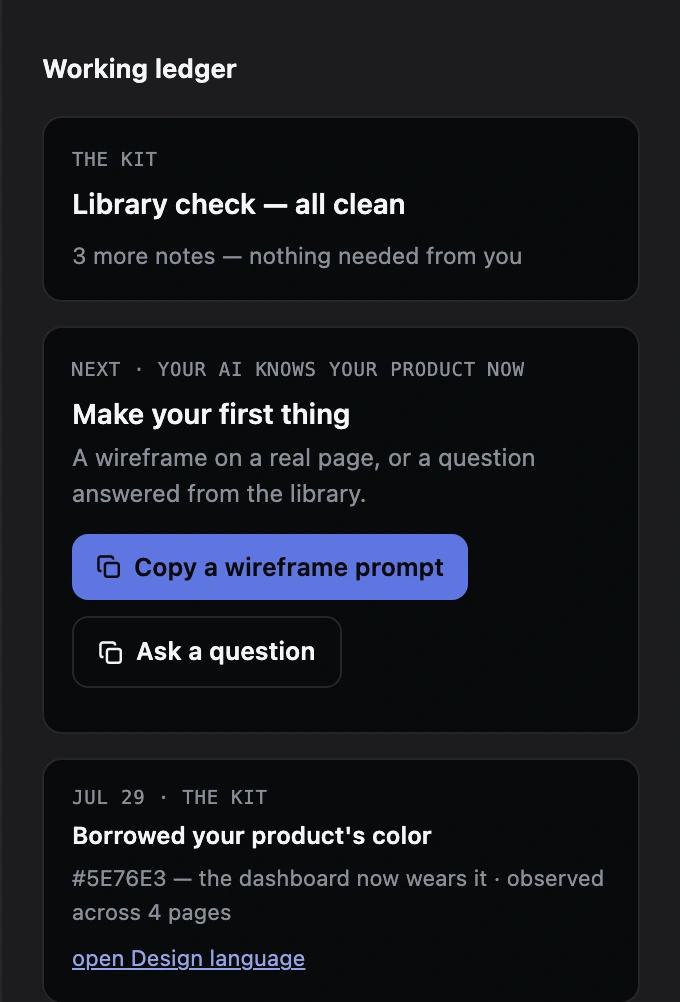
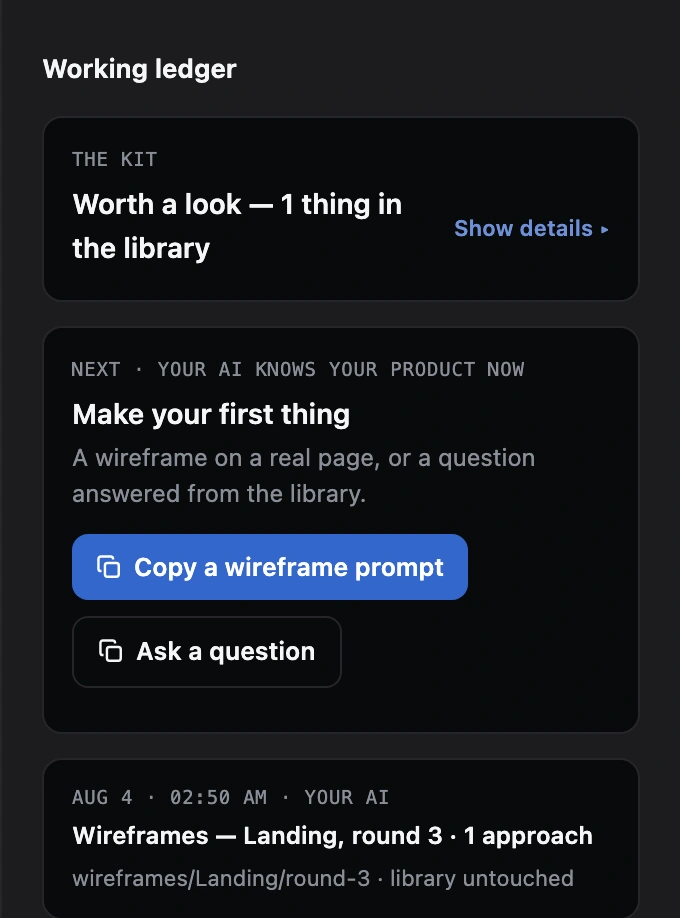
Wikipedia assets: one product, not two
Re-shoot hero, map, design-language, ledger and Figma page-doc panels from
wikipedia/ (38 pages, described 38/38) in place of xflowpay.com and the stale
41-page wikipedia capture. step-capture is a genuine mid-flight capture driven
through the real onboarding wizard against an isolated scratch workspace
(wikipedia/ itself never touched or rebuilt). step-design uses Prateek's own
HEADCOUNT wireframe on the captured Wiknic meetup page, shot with a new
region-shot.js after shot-wire.js was found to silently truncate multi-region
wireframes at the viewport edge.

Every number in the copy re-read from the live dashboard or registry.json,
never carried over from the old copy. Full provenance, gates and reasoning in
prds/landing-page-wikipedia-assets-BUILD-REPORT.md (design-kit-workspace).

diff --git a/docs/index.html b/docs/index.html
@@ -401,20 +401,19 @@ tools/start.sh</code>
 
     </div>
 
-    <!-- The hero map is en.wikipedia.org as of v1.3, and the swap was decided on the same measurement that
-         kept xflow in v1.2. Back then wikipedia won on structure (two rings, district arcs, a deep-fog chip
-         a single-ring library cannot produce) and lost on accent presence: 1 of its 37 discs wore the
-         product's accent against 8 of 18 on xflow — because the accent ring marks a page whose description
-         has been written, and that workspace had none. The describe run removed that cause: it is 41/41
-         now, and 33 of its 36 discs wear the measured Wikipedia blue. The remaining three are the purple
-         ×N covering discs shipped in 779ffbb, not undescribed pages. Criterion 5 is contested rather than
-         won — xflow still leads on proportion (100% vs 91.7%) and on accent pixels at its own tier — and
-         the call to flip was made on that full table, in prds/landing-page-v1.3-warm-BUILD-REPORT.md § F1. -->
+    <!-- The hero map is en.wikipedia.org, reshot for prds/landing-page-wikipedia-assets.md so every
+         full-size dashboard view on this page now comes from the same library instead of two different
+         products. Same winning tier v1.3 established (83%, via the dashboard's own − control) reproduced
+         against the freshly re-captured 38-page library: 38/38 described, readiness 86. 21 of 36 discs in
+         frame wear the measured Wikipedia blue (accent or accent-strong), the other 15 are the purple ×N
+         covering discs shipped in 779ffbb, not undescribed pages. Numbers re-read at build time with
+         hero-probe2.js and badge-probe.js against the live dashboard; see
+         prds/landing-page-wikipedia-assets-BUILD-REPORT.md. -->
     <div class="heroshot">
       <figure class="shot">
         <img src="assets/hero-map.webp" width="2200" height="1696"
-             alt="The kit's dashboard on the Map tab: a real capture of en.wikipedia.org, with the landing page lit at the centre reading '38 in · 19 out', and thirty-two further captured pages ringed across two rings labelled one click and two clicks, each drawn as a disc of its own screenshot and rimmed in the Wikipedia blue the kit measured. Three discs instead carry a purple ×N badge: one downloaded example standing for a whole template shape, the largest reading ×2.9k. Fourteen dashed ghost pages sit in the fog beyond, beside a chip reading 'DEEP FOG…4205 MORE — TEMPLATES STAND FOR MOST'. The footer reads '0.8% of the known world explored · rings are honest clicks-from-home · every unlock pushes the fog back'.">
-        <figcaption>The Map, on a real capture of en.wikipedia.org: forty-one pages downloaded, 4,593 still ghosts in the fog. Rings are measured clicks from home.</figcaption>
+             alt="The kit's dashboard on the Map tab: a real capture of en.wikipedia.org, with the landing page lit at the centre reading '35 in · 21 out', and thirty-five further captured pages ringed across three rings labelled one click, two clicks and three clicks, each drawn as a disc of its own screenshot and rimmed in the Wikipedia blue the kit measured. Fifteen discs instead carry a purple ×N badge: one downloaded example standing for a whole template shape, the largest reading ×1.1k. Fourteen dashed ghost pages sit in the fog beyond, beside a chip reading 'DEEP FOG…4007 MORE — TEMPLATES STAND FOR MOST'. The footer reads '0.9% of the known world explored · rings are honest clicks-from-home · every unlock pushes the fog back'.">
+        <figcaption>The Map, on a real capture of en.wikipedia.org: thirty-eight pages downloaded, 4,188 still ghosts in the fog. Rings are measured clicks from home.</figcaption>
       </figure>
     </div>
   </section>
@@ -447,8 +446,8 @@ tools/start.sh</code>
             <p>It follows your product's links and downloads each page as a snapshot: the real HTML, a screenshot, every word of copy, and the styles it actually uses. Pages that share a layout collapse to one example, with the count kept. You watch it land, page by page, and it tells you what it capped or skipped.</p>
           </div>
           <div class="imgwrap">
-            <img src="assets/step-capture.webp" width="1400" height="1450"
-                 alt="The dashboard mid-capture, headed 'Capture in progress': counters reading 6 pages captured, 1 template collapsed, 0 skipped, 18 nav pages found, above a live log that includes the line 'dismissed banner via dismiss (logged)' and six captured pages with their sizes.">
+            <img src="assets/step-capture.webp" width="1400" height="705"
+                 alt="The dashboard mid-capture, headed 'Capture in progress': counters reading 10 pages captured, 2 templates collapsed, 0 skipped, 28 nav pages found, above a live log that opens with 'Nav discovery (nav-landmarks): 28 candidate pages' and ten captured Wikipedia pages with their sizes, from wiki-main-page to wiki-special-recentchanges.">
           </div>
         </article>
 
@@ -459,8 +458,8 @@ tools/start.sh</code>
             <p>Point Claude Code, Cursor, or a chat window at the library and ask for a change. A wireframe comes back built on the captured page itself: your product's own shell, spacing and content, reduced to lo-fi, with the new part marked as new. Then take any page into Figma in one paste.</p>
           </div>
           <div class="imgwrap">
-            <img src="assets/step-design.webp" width="1500" height="663"
-                 alt="A wireframe round on the captured Stablecoin Payments page: the product's real navigation bar in grayscale above a dashed region tagged 'NEW: FLOW SPINE', holding three numbered steps (create wallet addresses, buyer sends stablecoins, user withdraws in INR), each with small chips of supporting detail.">
+            <img src="assets/step-design.webp" width="1500" height="421"
+                 alt="A wireframe round on a captured Wikipedia meetup page: a dashed region tagged 'NEW: HEADCOUNT', holding a meter reading '18 named of 49 allowed' beside a by-answer breakdown (Going 1, Likely 12, Maybe 4, Can't go 1) and the note 'Almost everyone answered Likely, so the real number on the day is not knowable.'">
           </div>
         </article>
 
@@ -543,11 +542,11 @@ tools/start.sh</code>
           <div class="body reveal">
             <h3>The Map</h3>
             <p class="quote">Rings are honest clicks-from-home; the fog is what you haven't captured yet.</p>
-            <p>Every captured page sits at its measured distance from the home page, sized by how linked-to it is. Pages the kit found but never downloaded stay as dashed ghosts in the fog. Click one, and the rail tells you what it is and what unlocking it would cost. Here a ghost covering thirteen blog pages is selected: the kit offers one example of the shape rather than all thirteen, because thirteen near-duplicates teach your AI nothing new. Eleven per cent of this product is explored, and the kit says so instead of rounding up.</p>
+            <p>Every captured page sits at its measured distance from the home page, sized by how linked-to it is. Pages the kit found but never downloaded stay as dashed ghosts in the fog. Click one, and the rail tells you what it is and what unlocking it would cost. Here a ghost covering 131 assorted one-off pages is selected: the kit offers one example of the shape rather than all 131, because 131 near-duplicates teach your AI nothing new. 0.9 per cent of this product is explored, and the kit says so instead of rounding up.</p>
           </div>
           <div class="imgwrap">
             <img src="assets/tour-map.webp" width="1900" height="1188"
-                 alt="The Map tab with a frontier ghost selected: the hovered ghost reads '/blog/:var — not downloaded yet — linked from 18 pages — click to unlock', and the rail panel is headed 'Locked — not downloaded yet' with the line '13 pages share this layout — one example covers the shape for your AI', a 'Get one example' button, a quieter 'Download all 13', and a checkbox list of the specific URLs.">
+                 alt="The Map tab with a frontier ghost selected: the hovered ghost reads '(assorted one-off pages) — not downloaded yet — linked from 23 pages — click to unlock', and the rail panel is headed 'Locked — not downloaded yet' with the line '131 pages share this layout — one example covers the shape for your AI', a 'Get one example' button, a quieter 'Download all 131', and a checkbox list of the specific URLs.">
           </div>
         </article>
 
@@ -555,11 +554,11 @@ tools/start.sh</code>
           <div class="body reveal">
             <h3>Design language</h3>
             <p class="quote">Measured from your product, or absent.</p>
-            <p>Colours, type ramp, spacing ladder and radii, aggregated from the captured pages, every value carrying the count and page-spread behind it, as here, where the product's darkest navy is <code>×32,939</code> across all eighteen pages and the accent is <code>×141</code> across four. One toggle re-reads the same colours as a treemap of how often each appears. The tab opens with <code>method: heuristic</code> in its own words: evidence of how the product is styled today, not a claim about its authored tokens. It even names what it left out: values seen on a single page stay in <code>tokens.json</code> instead of being promoted into the ramp.</p>
+            <p>Colours, type ramp, spacing ladder and radii, aggregated from the captured pages, every value carrying the count and page-spread behind it, as here, where the product's darkest tone is <code>×42,696</code> across all thirty-eight pages and the accent is <code>×24,479</code>, also across all thirty-eight. One toggle re-reads the same colours as a treemap of how often each appears. The tab opens with <code>method: heuristic</code> in its own words: evidence of how the product is styled today, not a claim about its authored tokens. It even names what it left out: values seen on a single page stay in <code>tokens.json</code> instead of being promoted into the ramp.</p>
           </div>
           <div class="imgwrap">
-            <img src="assets/tour-tokens.webp" width="1900" height="609"
-                 alt="The Design language tab: a provenance strip reading 'Everything below is method: heuristic — values observed on the captured pages, aggregated and clustered by statistics — they are evidence of how the product is styled today, not its authored design tokens', then 'Filter: seen on 2+ pages (41 single-page values kept in tokens.json)', above a Palette / Proportions toggle and twenty-one colour swatches, each labelled with its hex, how many times it was seen and on how many pages: #1F2741 ×32,939 on 18 pages, down to #E4E9FF ×5 on 5 pages.">
+            <img src="assets/tour-tokens.webp" width="1900" height="885"
+                 alt="The Design language tab: a provenance strip reading 'Everything below is method: heuristic — values observed on the captured pages, aggregated and clustered by statistics — they are evidence of how the product is styled today, not its authored design tokens', then 'Filter: seen on 2+ pages (161 single-page values kept in tokens.json)', above a Palette / Proportions toggle and forty-eight colour swatches, each labelled with its hex, how many times it was seen and on how many pages: #202122 ×42,696 on 38 pages, down to #DFF2EB ×2 on 2 pages.">
           </div>
         </article>
 
@@ -567,11 +566,11 @@ tools/start.sh</code>
           <div class="body reveal">
             <h3>The working ledger</h3>
             <p class="quote">It borrows your product's own colour: observed, never guessed.</p>
-            <p>A journal down the side of the dashboard: what was captured, what your AI read, what it wrote, what changed. The top slot holds the one move worth making next, and it changes as the work lands: when pages are waiting to be read it asks for that, with the describe prompt ready to copy; here every page has been read, so it has moved on and asks for the first design instead. And the accent the dashboard wears is lifted from the product you captured: the entry names the hex and how many pages it was seen on.</p>
+            <p>A journal down the side of the dashboard: what was captured, what your AI read, what it wrote, what changed. The top slot holds the one move worth making next, and it changes as the work lands: when pages are waiting to be read it asks for that, with the describe prompt ready to copy; here every page has been read, so it has moved on to a hygiene note instead, a page nothing links to, with a fix prompt ready to copy. And the accent the dashboard wears is lifted from the product you captured: observed, never guessed.</p>
           </div>
           <div class="imgwrap">
-            <span class="fadeb"><img src="assets/tour-ledger.webp" width="680" height="1002"
-                 alt="The working ledger: 'Library check — all clean — 3 more notes, nothing needed from you'; then 'NEXT · YOUR AI KNOWS YOUR PRODUCT NOW — Make your first thing — a wireframe on a real page, or a question answered from the library', with 'Copy a wireframe prompt' and 'Ask a question' buttons; then 'Borrowed your product's color — #5E76E3, the dashboard now wears it, observed across 4 pages'. The rail continues below the frame."></span>
+            <span class="fadeb"><img src="assets/tour-ledger.webp" width="680" height="918"
+                 alt="The working ledger: 'THE KIT · Worth a look — 1 thing in the library · Show details ▸'; then 'NEXT · YOUR AI KNOWS YOUR PRODUCT NOW — Make your first thing — a wireframe on a real page, or a question answered from the library', with 'Copy a wireframe prompt' and 'Ask a question' buttons; then 'AUG 4 · 02:50 AM · YOUR AI — Wireframes, Landing round 3 · 1 approach'. The rail continues below the frame."></span>
           </div>
         </article>
 
@@ -637,7 +636,7 @@ tools/start.sh</code>
 
       <p class="note" style="margin-top:18px">Every hex above was <b>measured</b>, not chosen: it is the most-used colour in that product's own captured pages that a UI accent could plausibly be, and the dashboard then wears it. Which is also why six of these seven hexes sit inside a twenty-degree band of blue and only airbnb's crimson doesn't. A palette someone picked would be prettier than this, and that is rather the point. Nothing was configured per product. Where a product's colour can't clear the dashboard's contrast floor, the kit lightens it just enough and records that it did, which is why amazon.in's measured <code>#2162A1</code> paints as <code>#2367A9</code>. Where no colour qualifies, no accent is recorded at all and the dashboard keeps its own indigo: absent rather than invented.</p>
 
-      <p class="note" style="margin-top:12px">These maps are shown small on purpose. At this size a captured product is only its shape (how many pages, how far from home, how much fog), which is all this section claims. Every map here has also been <b>read</b>: all 256 pages across the seven libraries carry a description, written by an AI and labelled <code>method: ai</code> in the library so it is never mistaken for a captured fact. That is what the accent rim marks: a page whose description exists. That is why these maps are warm where earlier versions of this page were pale. A purple <code>×N</code> disc is described too; it simply also stands for a template shape, so it wears that badge instead. The hero at the top of this page is the wikipedia library shown large; every other full-size dashboard view here is one product, <code>xflowpay.com</code>, captured by the person who built the kit.</p>
+      <p class="note" style="margin-top:12px">These maps are shown small on purpose. At this size a captured product is only its shape (how many pages, how far from home, how much fog), which is all this section claims. Every map here has also been <b>read</b>: all 256 pages across the seven libraries carry a description, written by an AI and labelled <code>method: ai</code> in the library so it is never mistaken for a captured fact. That is what the accent rim marks: a page whose description exists. That is why these maps are warm where earlier versions of this page were pale. A purple <code>×N</code> disc is described too; it simply also stands for a template shape, so it wears that badge instead. The hero at the top of this page, and every other full-size dashboard view below it, is the same product: <code>en.wikipedia.org</code>.</p>
 
       <p class="note" style="margin-top:12px">Nor does every page yield. Following links is all the kit does, so a page that only opens behind a sign-in, or that answers a link with a soft 404, doesn't come home: amazon.in's run recorded seven of those (six <code>auth-redirect</code>, one <code>soft-404</code>), each with its reason, in the same file that lists what did come home. The maps above are what one read-only crawl reached, not a claim that every page type is reachable.</p>
     </div>
@@ -652,8 +651,8 @@ tools/start.sh</code>
 
       <div class="figma">
         <figure class="shot">
-          <img src="assets/figma-before.webp" width="1600" height="1860"
-               alt="A page doc in the dashboard for the Stablecoin Payments page: an actions row reading 'Wireframe on this page', '⧉ Copy for Figma', 'Ask about this page' and 'Open real HTML', the captured page's screenshot below it, and a rail listing what the page is, its link counts, and its capture history.">
+          <img src="assets/figma-before.webp" width="1600" height="1639"
+               alt="A page doc in the dashboard for the Landing page: an actions row reading 'Wireframe on this page', '⧉ Copy for Figma', 'Ask about this page' and 'Open real HTML', the captured page's screenshot below it, and a rail listing what the page is, its link counts, and its capture history.">
           <figcaption>Where the button lives: any page doc, any state, the Home atlas panel, the Map panel.</figcaption>
         </figure>
 

diff --git a/ux-copy.md b/ux-copy.md
@@ -1,5 +1,105 @@
 # UX copy canon
 
+## 2026-08-04 (even later) — the landing page stops showing two different products (`prds/landing-page-wikipedia-assets.md`, F1–F3)
+
+`docs/index.html`, `docs/assets/*`. Five real dashboard views (`hero-map`, `tour-map`, `tour-tokens`,
+`tour-ledger`, `figma-before`) were re-shot from `wikipedia/` (38 pages, described 38/38, readiness 86)
+in place of `xflowpay.com` and the stale 41-page wikipedia capture, so the hero and every full-size
+tour panel below it are now one product instead of two. `step-capture` was re-shot as a genuine
+mid-flight capture of `en.wikipedia.org` in an isolated scratch workspace (never touching the real
+`wikipedia/` library); `step-design` was re-shot from Prateek's own wireframe round on the captured
+Wiknic meetup page (F3 — a wireframe was **consumed**, never authored). `step-onboard` and the seven
+`tile-*.webp` gallery images are untouched, per the brief's non-goals.
+
+**Method:** every number below was re-read from the live dashboard (`hero-probe2.js`, `badge-probe.js`,
+direct DOM evaluation) or from `wikipedia/design-context/registry.json` at build time, never carried
+over from the old copy. Full provenance table in the build report.
+
+### Hero (§1)
+
+| Was (xflowpay/old-wikipedia mix) | Now (wikipedia, 38 pages, live-read) |
+|---|---|
+| alt: `'38 in · 19 out'`, "thirty-two further captured pages", "two rings", "Three discs... the largest reading ×2.9k", `'DEEP FOG…4205 MORE...'`, `'0.8% of the known world explored'` | alt: `'35 in · 21 out'`, "thirty-five further captured pages", "three rings labelled one click, two clicks and three clicks", "Fifteen discs... the largest reading ×1.1k", `'DEEP FOG…4007 MORE...'`, `'0.9% of the known world explored'` |
+| figcaption: "forty-one pages downloaded, 4,593 still ghosts" | figcaption: "thirty-eight pages downloaded, 4,188 still ghosts" |
+
+The source comment above the hero (previously reciting the v1.3 F1 hero-contest numbers, which were
+about which library *won*, not about this library's own render) was rewritten to describe what this
+round did: reproduced the same winning tier (83%) against the freshly re-captured 38-page library.
+
+### The Map tab (§4, `#library`)
+
+| Was | Now |
+|---|---|
+| "a ghost covering thirteen blog pages... rather than all thirteen, because thirteen near-duplicates..." | "a ghost covering 131 assorted one-off pages... rather than all 131, because 131 near-duplicates..." |
+| "Eleven per cent of this product is explored" | "0.9 per cent of this product is explored" |
+| alt: `'/blog/:var — ... linked from 18 pages ...'`, `'13 pages share this layout...'`, `'Download all 13'` | alt: `'(assorted one-off pages) — ... linked from 23 pages ...'`, `'131 pages share this layout...'`, `'Download all 131'` |
+
+The selected ghost is a different *kind* on wikipedia: there is no `/blog/:var`-style templated route,
+so the frontier group that came up under `.mapghost` is `(assorted one-off pages)`, not a named
+template. Copy changed to match what is actually selected, not just the count.
+
+### Design language tab (§4)
+
+| Was | Now |
+|---|---|
+| "the product's darkest **navy** is `×32,939` across all eighteen pages and the accent is `×141` across four" | "the product's darkest **tone** is `×42,696` across all thirty-eight pages and the accent is `×24,479`, also across all thirty-eight" |
+| alt: "`41 single-page values kept in tokens.json`... twenty-one colour swatches... `#1F2741 ×32,939 on 18 pages`, down to `#E4E9FF ×5 on 5 pages`" | alt: "`161 single-page values kept in tokens.json`... forty-eight colour swatches... `#202122 ×42,696 on 38 pages`, down to `#DFF2EB ×2 on 2 pages`" |
+
+**"Darkest navy" became "darkest tone"** — not just a number swap. Wikipedia's most-used dark value,
+`#202122`, is a near-black charcoal, not a navy; the old word was true of xflow's palette and would
+have been a wrong colour claim if carried over unchanged.
+
+### The working ledger (§4)
+
+| Was | Now |
+|---|---|
+| body: "...here every page has been read, so it has moved on and asks for **the first design instead**. And the accent... **the entry names the hex and how many pages it was seen on.**" | body: "...here every page has been read, so it has moved on to **a hygiene note instead, a page nothing links to, with a fix prompt ready to copy**. And the accent... **observed, never guessed.**" |
+| alt: `'Library check — all clean — 3 more notes...'`; `'Borrowed your product's color — #5E76E3... observed across 4 pages'` | alt: `'THE KIT · Worth a look — 1 thing in the library · Show details ▸'`; `'AUG 4 · 02:50 AM · YOUR AI — Wireframes, Landing round 3 · 1 approach'` |
+
+**This is more than a number swap.** Wikipedia's ledger top slot is a hygiene note (an unreachable
+page, `Wikipedia:File_upload_wizard`), not the "make your first design" prompt, and no colour-borrow
+journal entry is in the 3-row crop this round's `--rows` cut keeps. The body paragraph and alt text
+were rewritten to describe what is actually in frame rather than force the old narrative onto new
+data. Em dashes inside the quoted UI strings (`"Worth a look — 1 thing..."`) are transcriptions of the
+dashboard's own rendered text, same exception as the 2026-08-04 sweep below.
+
+### Figma section (§6)
+
+Alt text's page name changed `Stablecoin Payments` → `Landing` (the captured page is now
+`wiki-main-page`, breadcrumbed "Home / Wiki / Landing" in the dashboard). No numbers in this section's
+copy needed changing — the alt text never quoted page-specific counts.
+
+### Step 2 — capture in progress (§2)
+
+Alt text rewritten for a real 10-of-18-page wikipedia capture (`10 pages captured, 2 templates
+collapsed, 0 skipped, 28 nav pages found`) in place of the old 6-of-8 xflow capture. Reproduced
+honestly: driven through the dashboard's own onboarding wizard (`https://en.wikipedia.org`, public),
+in an isolated scratch workspace this round created and deleted — the real `wikipedia/` library was
+never touched or re-captured.
+
+### Step 3 — your AI designs grounded (§2)
+
+Alt text rewritten for the `HEADCOUNT` card from `wikipedia/wireframes/.../round-1/03-potluck-board.html`
+(Prateek's own wireframe, consumed not authored — see build report § F3): "18 named of 49 allowed",
+"Going 1, Likely 12, Maybe 4, Can't go 1", "Almost everyone answered Likely, so the real number on the
+day is not knowable."
+
+### `#anyproduct` closing note — the sentence this whole brief exists to fix
+
+| Was | Now |
+|---|---|
+| "The hero at the top of this page is the wikipedia library shown large; every other full-size dashboard view here is one product, `xflowpay.com`, captured by the person who built the kit." | "The hero at the top of this page, and every other full-size dashboard view below it, is the same product: `en.wikipedia.org`." |
+
+This is the exact sentence quoted in the brief's own "why this change exists" section. Everything else
+in this round exists to make this sentence true.
+
+**Untouched, verified still true, not re-derived:** the seven-tile gallery section (§5) — its own
+`tile-wikipedia.webp` stays the old 41-page render per the brief's non-goals, so its alt text
+(`0.8%`, `×2.9k`, thirty-six discs), the `xflowpay.com` tile's own caption (`#5E76E3`, `11%`), the
+"Eighteen to forty-one pages... eleven per cent down to four-fifths of one" range, and the "all 256
+pages across the seven libraries" total are all still correct descriptions of images this round did
+not touch, and were checked rather than assumed.
+
 ## 2026-08-04 (later) — the landing page asks who you are before it hands you a command (`prds/landing-page-install-path-toggle.md`, F1–F4)
 
 `docs/index.html`. The hero's install area became a **two-option picker** (assistant preselected,
